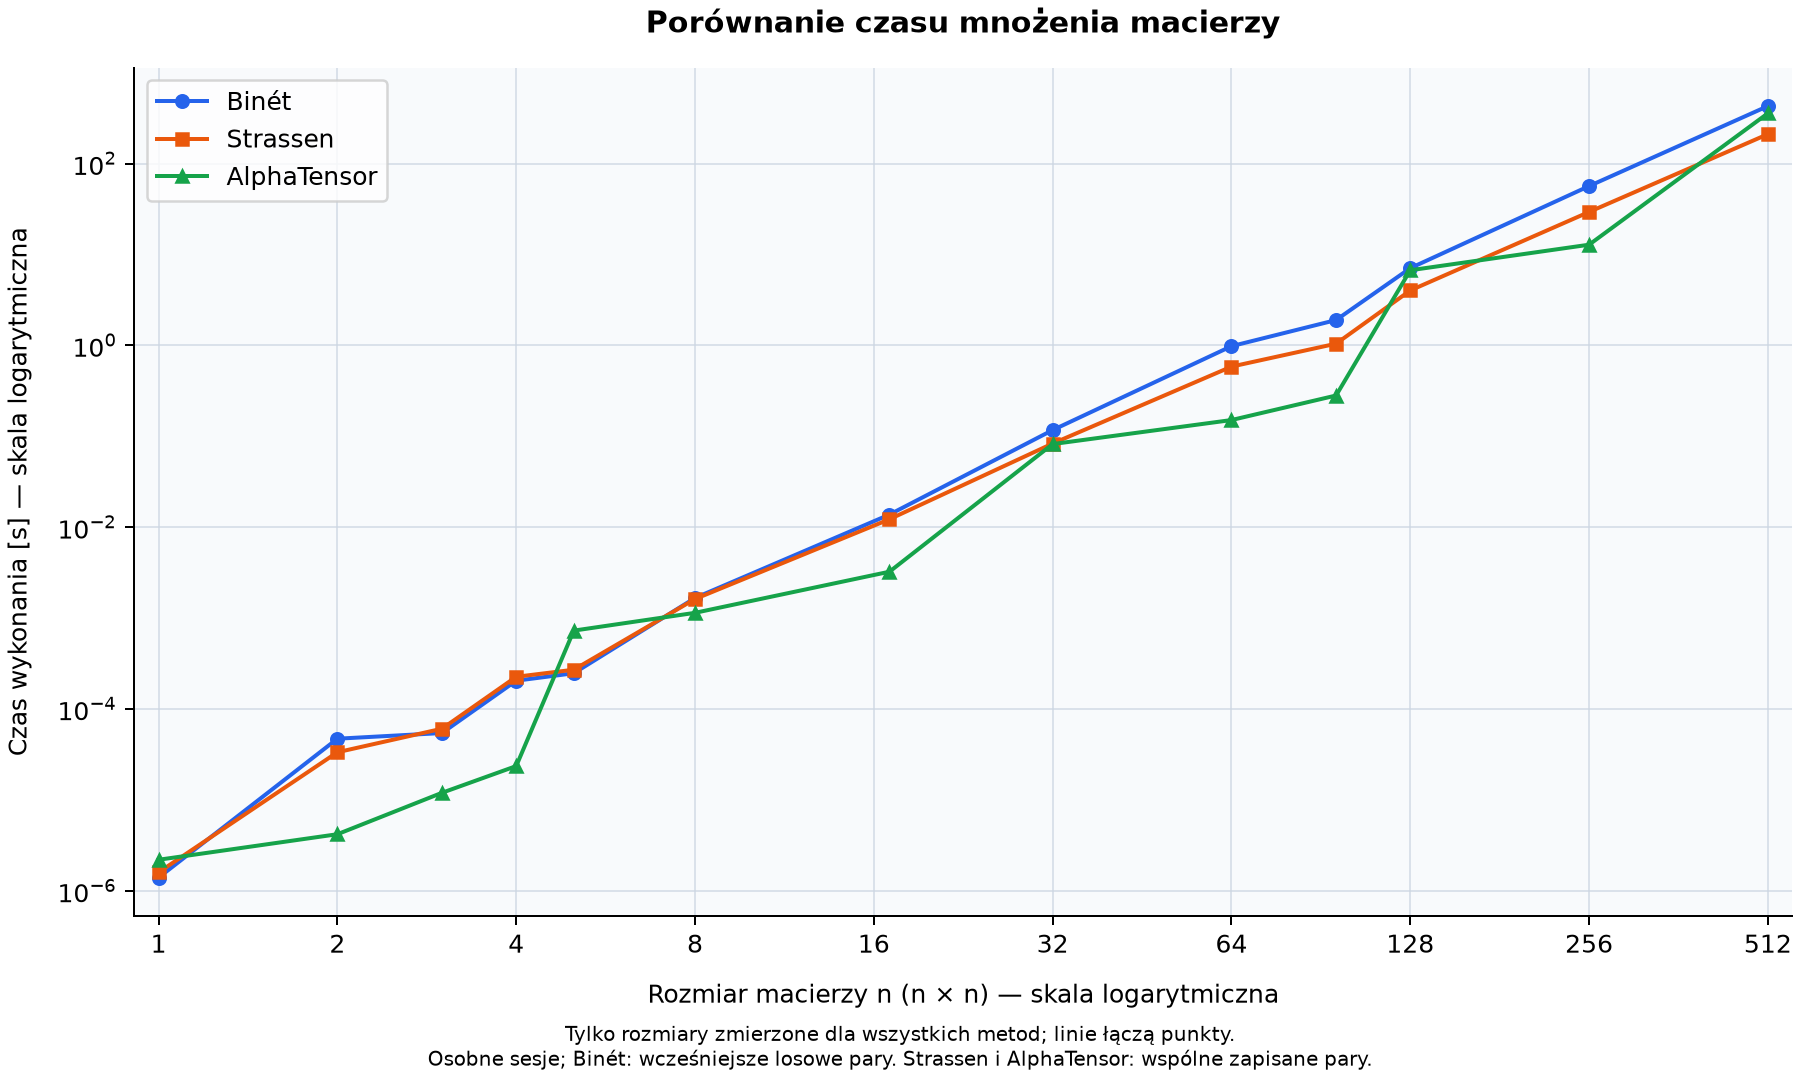
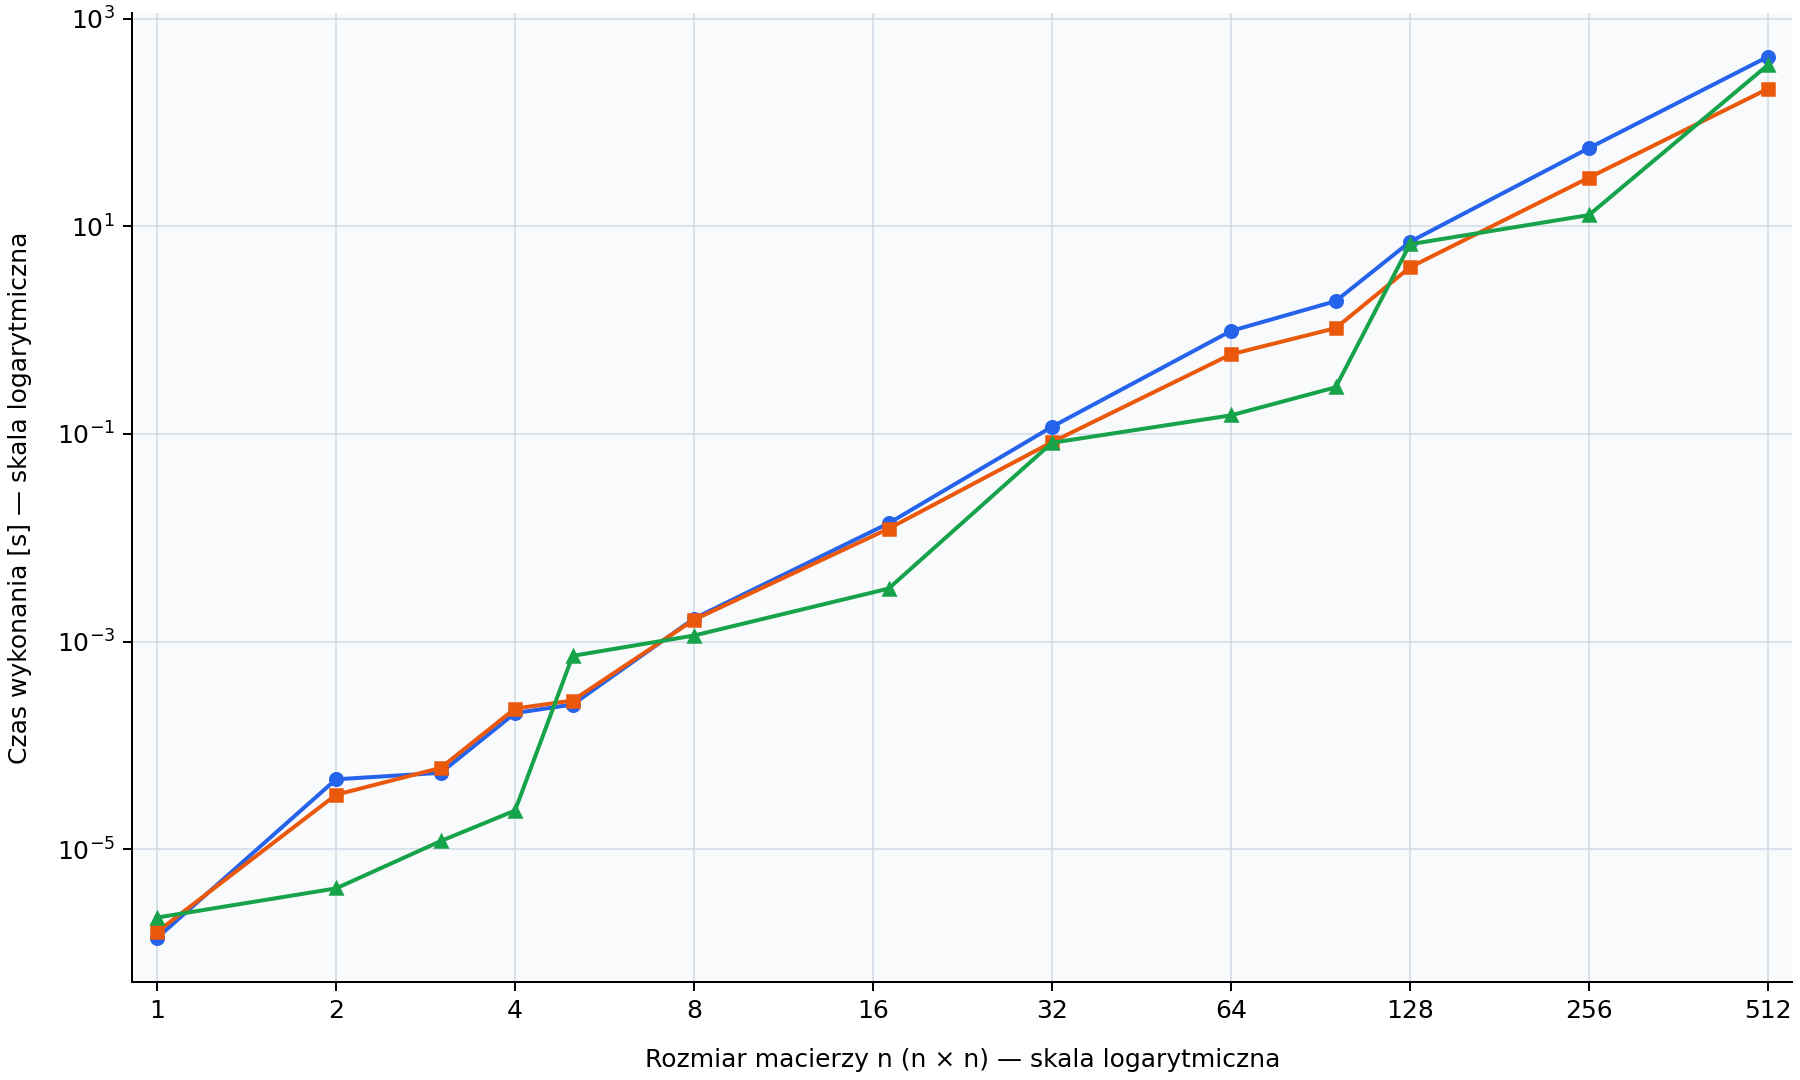
Remove titles legends and notes from comparison plots

diff --git a/plot_all.py b/plot_all.py
@@ -57,7 +57,6 @@ def plot_all(compiled: bool = False) -> None:
             ax.plot(sizes, values, color=color, marker=marker, markersize=5,
                     linewidth=1.6, label=label)
 
-        ax.set_title(title, fontweight="bold", pad=14)
         ax.set_xscale("log", base=2)
         ax.set_yscale("log")
         ax.set_xticks([2**k for k in range(sizes[-1].bit_length())])
@@ -69,11 +68,6 @@ def plot_all(compiled: bool = False) -> None:
         ax.grid(True, which="major", color="#cbd5e1", alpha=0.65)
         ax.grid(True, which="minor", axis="y", color="#cbd5e1", alpha=0.2)
         ax.spines[["top", "right"]].set_visible(False)
-        ax.legend()
-        fig.supxlabel(
-            "Tylko rozmiary zmierzone dla wszystkich metod; linie łączą punkty.\n" + note,
-            fontsize=8,
-        )
         output_path = output_dir / filename
         fig.savefig(output_path, dpi=180)
         plt.close(fig)
